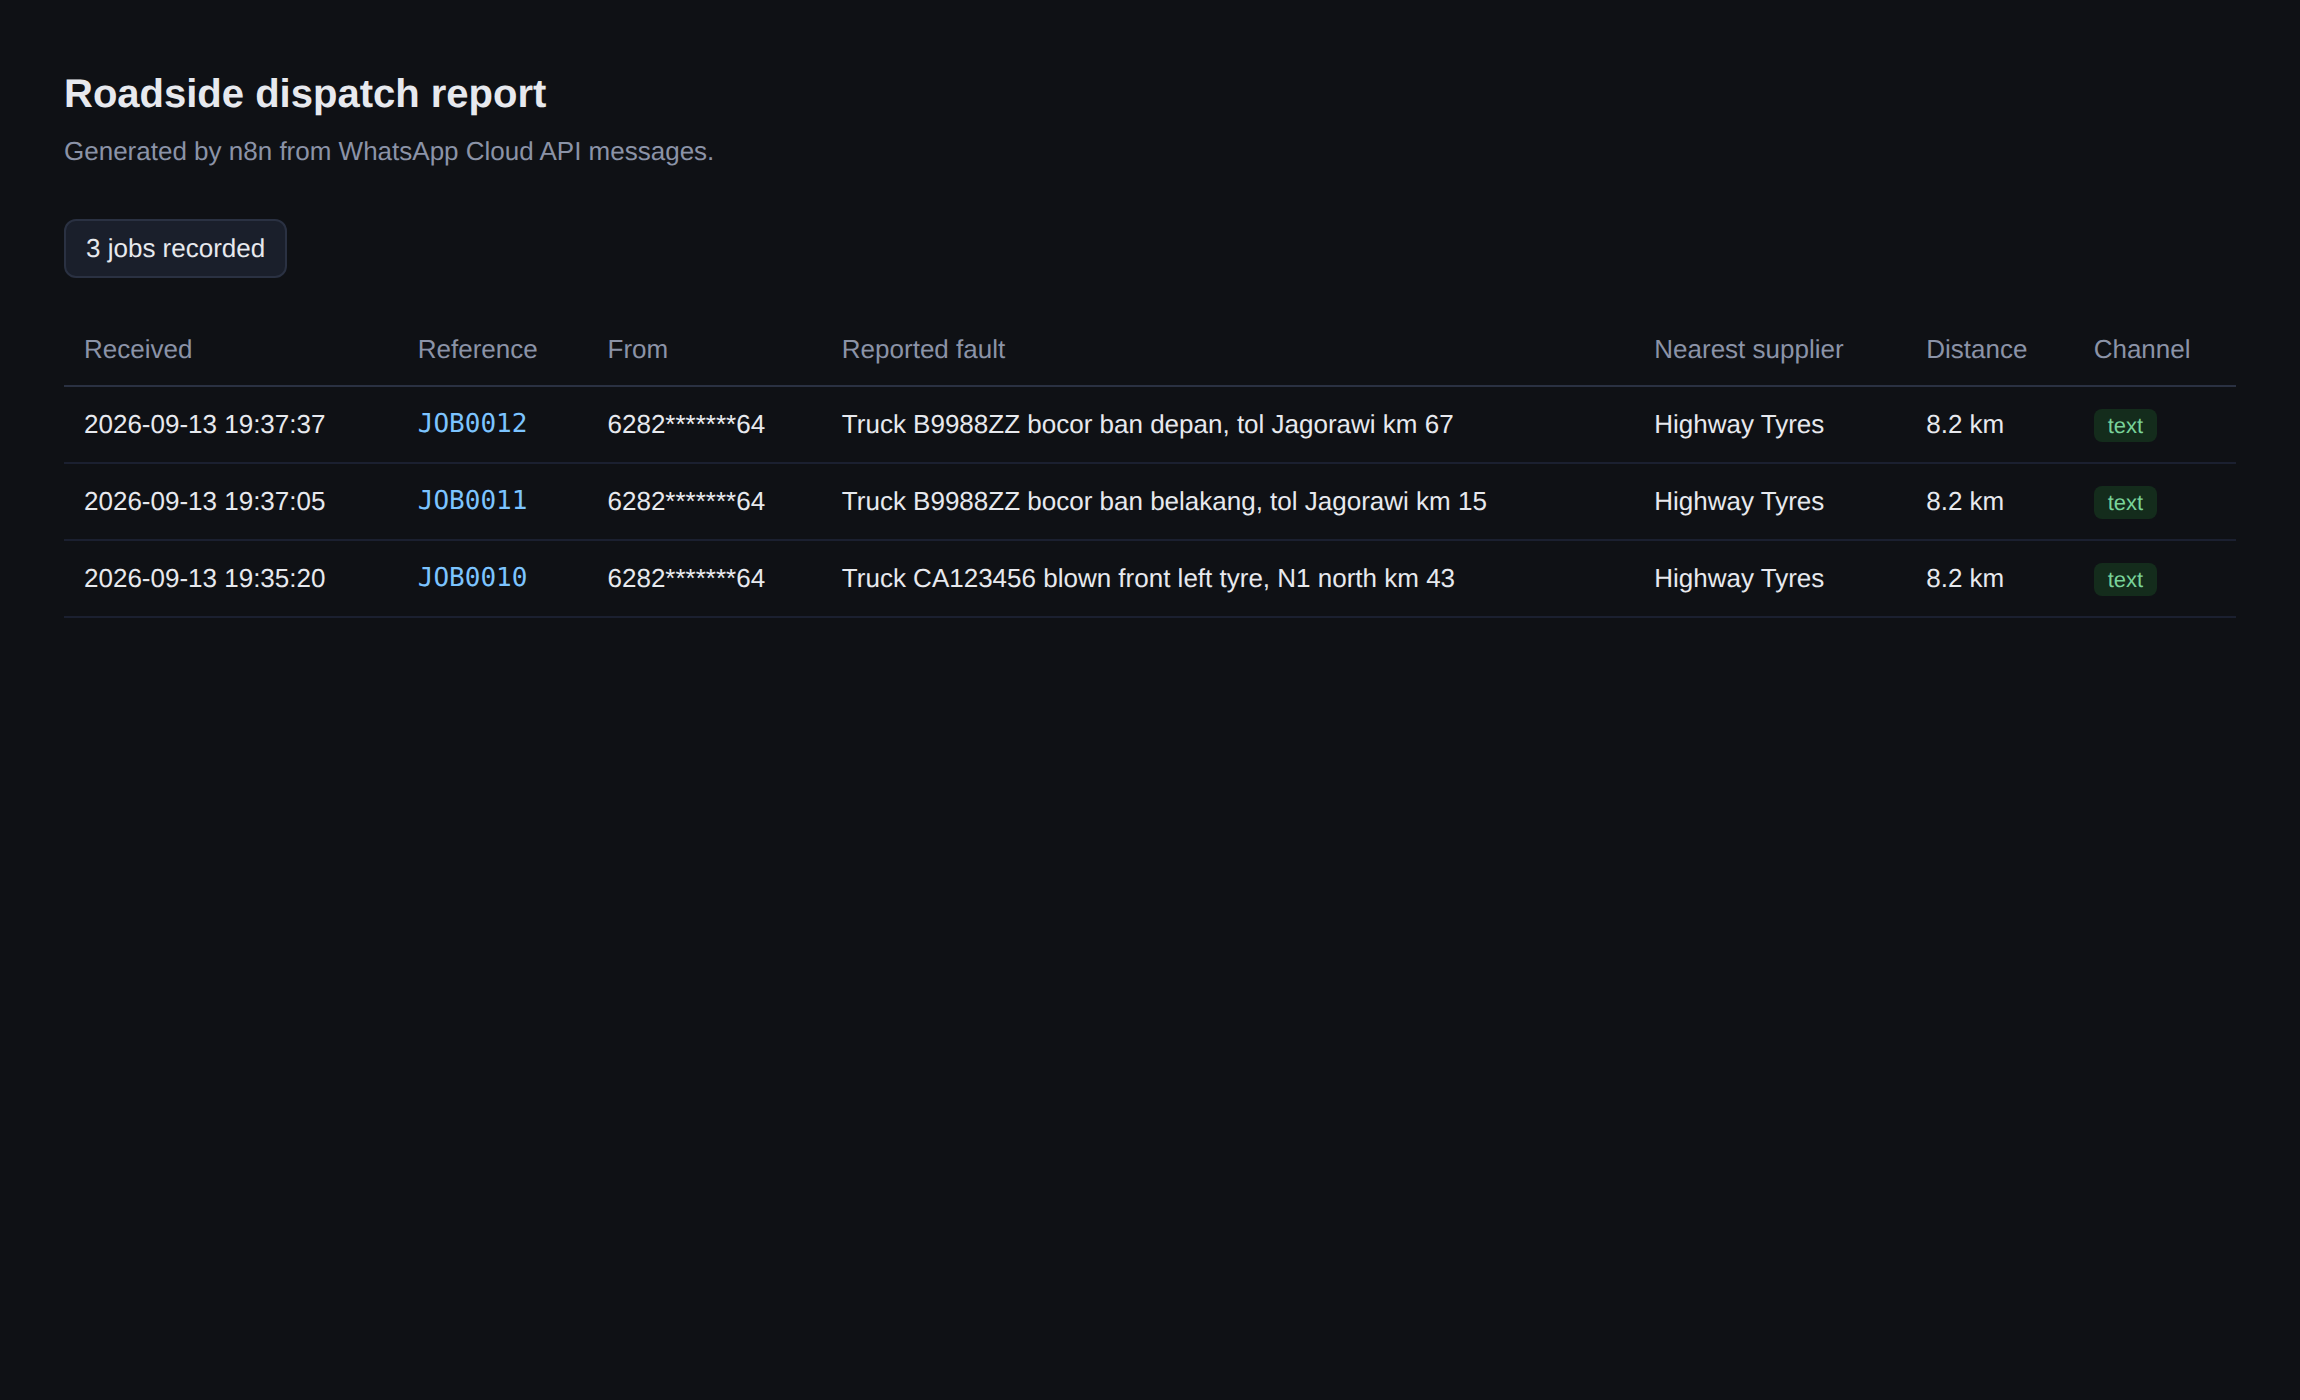
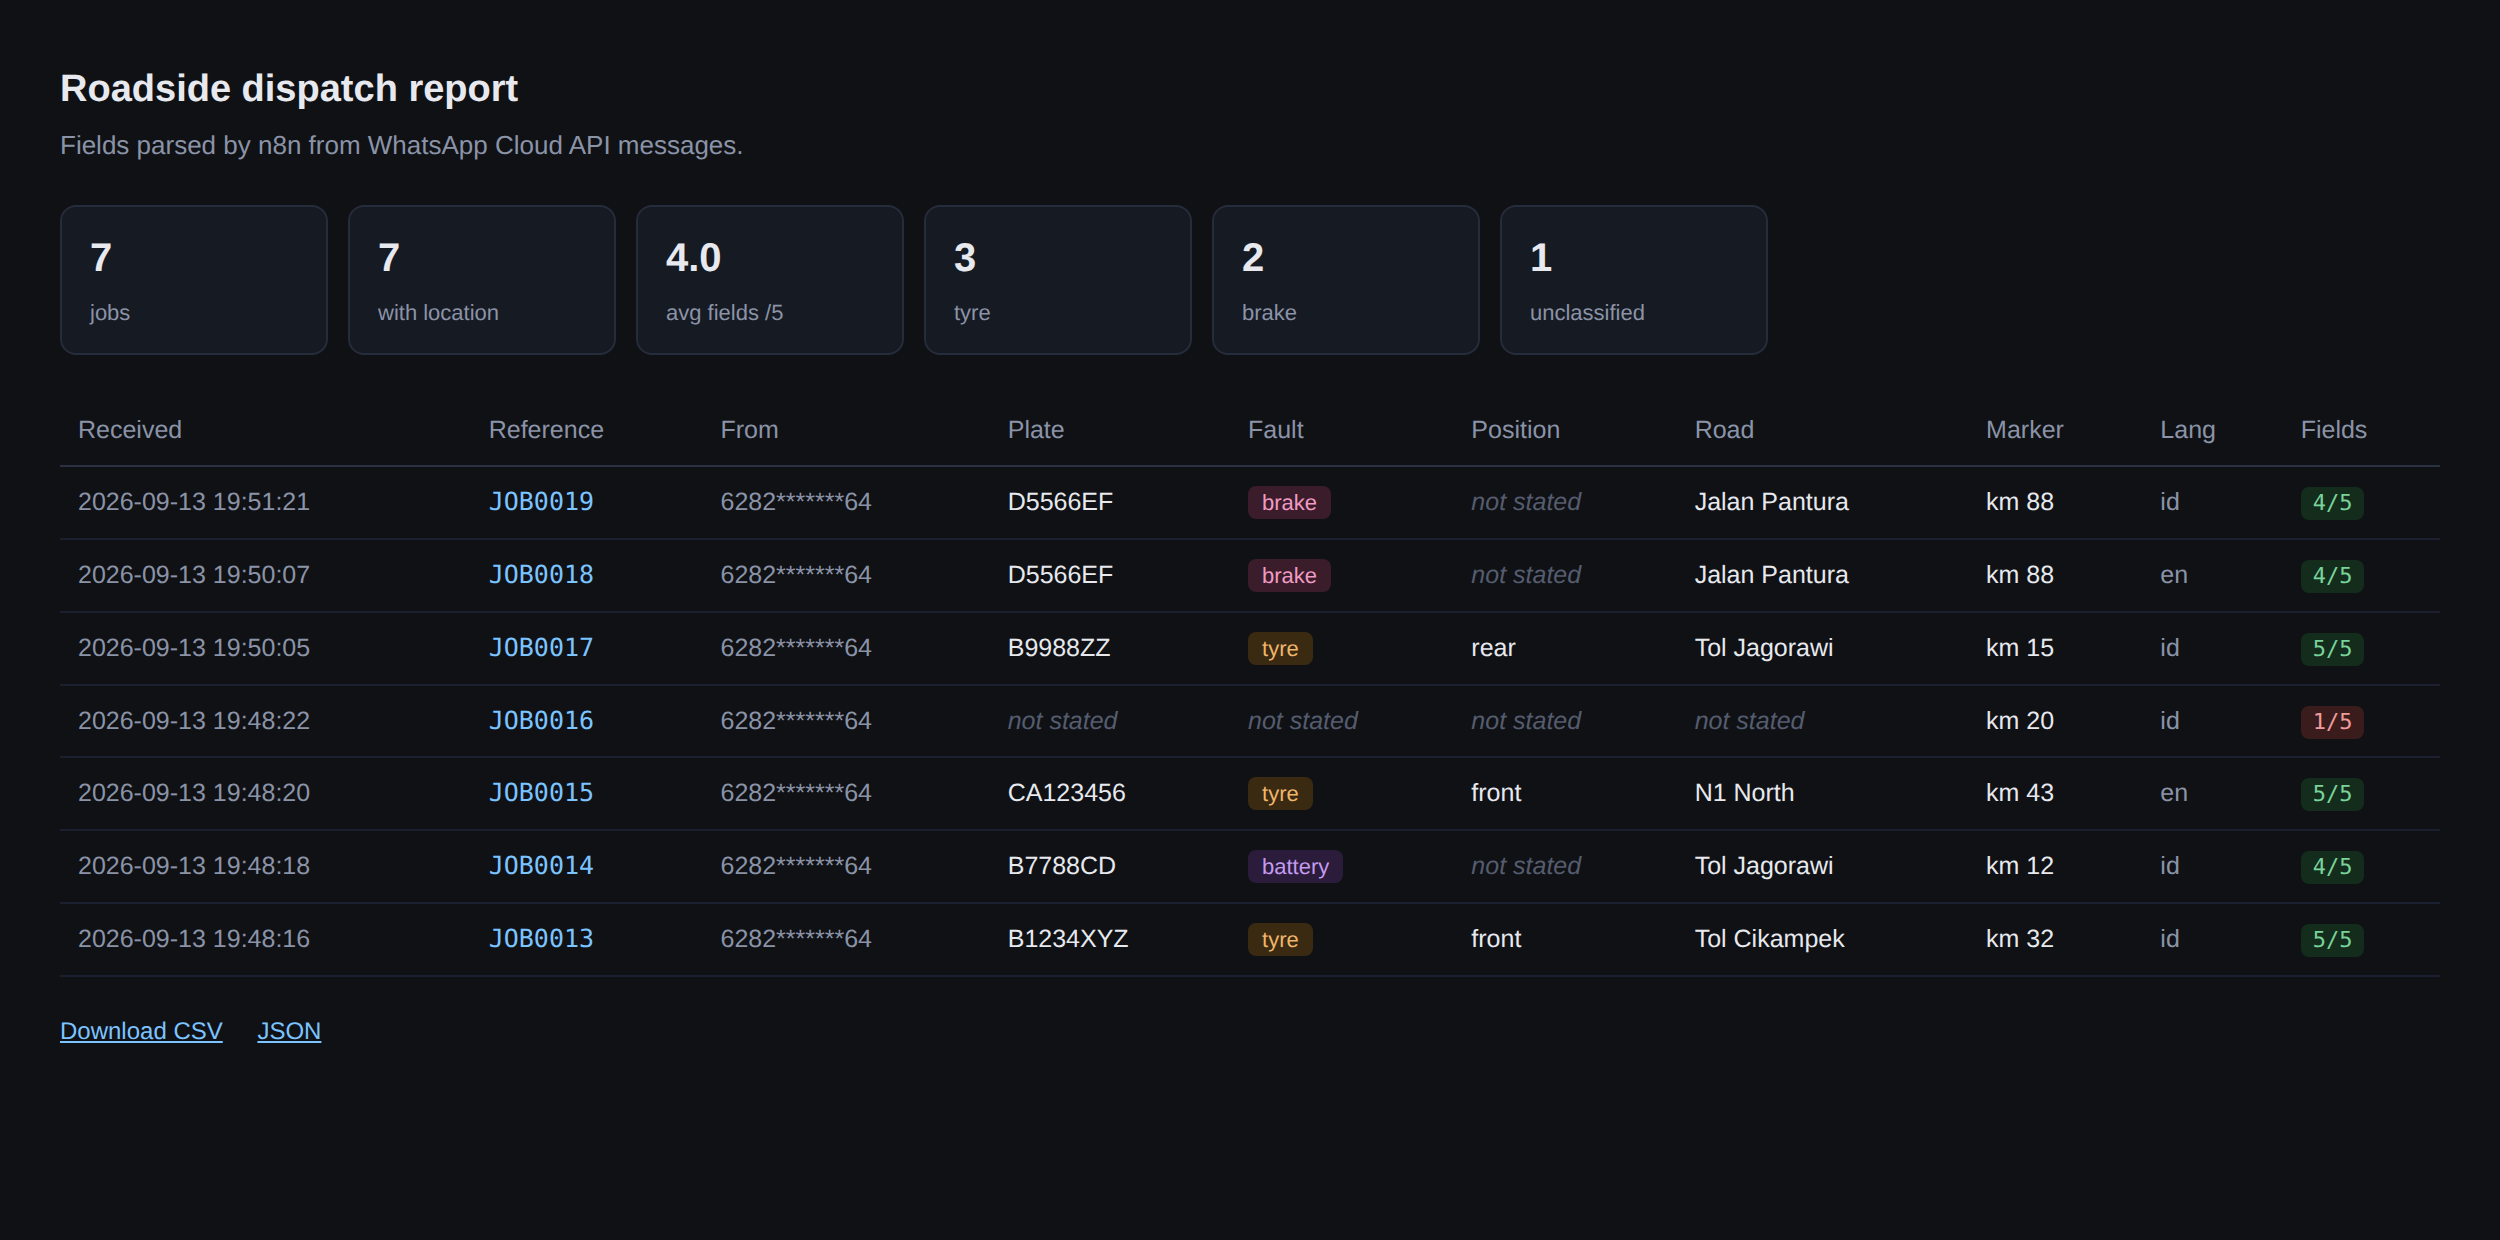
Parse breakdown messages into reportable fields
The report stored whole sentences, which cannot be counted, filtered or exported.
Messages now resolve into plate, fault type, wheel position, road, kilometre
marker and language, with CSV and JSON output alongside the page.

Fields the message never stated stay null rather than guessed, and each row
carries a completeness score so thin reports can be chased. 21 tests cover the
extraction, including the rule that a road code such as N1 is not a plate.

diff --git a/dispatch/extract.py b/dispatch/extract.py
@@ -1,0 +1,143 @@
+"""Pull structured fields out of free-form breakdown messages.
+
+Drivers describe a fault in whatever words they use, mixing Indonesian and
+English. Reporting needs columns. This module turns one into the other.
+
+One rule runs through all of it. A field the message does not state comes back as
+None. An empty cell in a report is a question someone can answer, while a guessed
+plate number sends a truck to the wrong place, so nothing here infers a value it
+did not read.
+"""
+import re
+
+# Wheel position, checked before fault type so "ban depan" resolves both.
+_POSITIONS = (
+    ('front', (r'\bdepan\b', r'\bfront\b')),
+    ('rear', (r'\bbelakang\b', r'\brear\b', r'\bback\b')),
+)
+
+# Fault categories. Ordered, first match wins.
+_FAULTS = (
+    ('tyre', (r'\bban\b', r'\btyre\b', r'\btire\b', r'\bpecah ban\b',
+              r'\bbocor\b', r'\bblown\b', r'\bflat\b', r'\bkempes\b')),
+    ('battery', (r'\baki\b', r'\bbattery\b', r'\bsoak\b', r'\bstarter\b',
+                 r'\bmogok listrik\b')),
+    ('engine', (r'\bmesin\b', r'\bengine\b', r'\boverheat\b', r'\bpanas\b',
+                r'\bmogok\b')),
+    ('fuel', (r'\bbensin\b', r'\bsolar\b', r'\bfuel\b', r'\bdiesel\b',
+              r'\bkehabisan bahan bakar\b')),
+    ('brake', (r'\brem\b', r'\bbrake\b', r'\bblong\b')),
+)
+
+# Indonesian plates: 1-2 letters, 1-4 digits, 1-3 letters, spacing optional.
+# Generic fleet codes such as CA123456 are also accepted.
+_PLATE_PATTERNS = (
+    r'\b([A-Z]{1,2}\s?\d{1,4}\s?[A-Z]{1,3})\b',
+    r'\b([A-Z]{2}\d{4,6})\b',
+)
+
+# Road names, longest form first so "tol dalam kota" beats "tol".
+_ROAD_PATTERNS = (
+    r'\b(tol\s+[a-z]+(?:\s+[a-z]+)?)\b',
+    r'\b(jalan\s+[a-z]+(?:\s+[a-z]+)?)\b',
+    r'\b(jl\.?\s+[a-z]+(?:\s+[a-z]+)?)\b',
+    r'\b([nm]\d\s+(?:north|south|east|west))\b',
+    r'\b([nm]\d)\b',
+)
+
+_ID_MARKERS = (r'\bpecah\b', r'\bban\b', r'\btol\b', r'\bbelakang\b', r'\bdepan\b',
+               r'\bbocor\b', r'\bmogok\b', r'\baki\b', r'\bjalan\b', r'\brusak\b',
+               r'\bbantuan\b', r'\btolong\b', r'\bkendaraan\b')
+_EN_MARKERS = (r'\bblown\b', r'\btyre\b', r'\btire\b', r'\bfront\b', r'\brear\b',
+               r'\bnorth\b', r'\bsouth\b', r'\bbroken\b', r'\bhelp\b',
+               r'\bbreakdown\b', r'\btruck\b', r'\bflat\b')
+
+# Words that look like plates but are not: road codes and unit labels.
+_PLATE_BLOCKLIST = re.compile(r'^(?:[NM]\d|KM|TOL|JL)$', re.I)
+
+
+def _first_match(text, patterns):
+    for pattern in patterns:
+        found = re.search(pattern, text, re.I)
+        if found:
+            return found
+    return None
+
+
+def _find_plate(original):
+    """Read a plate from the original casing, since plates are upper case."""
+    for pattern in _PLATE_PATTERNS:
+        for candidate in re.findall(pattern, original):
+            cleaned = re.sub(r'\s+', '', candidate).upper()
+            if _PLATE_BLOCKLIST.match(cleaned):
+                continue
+            # A plate carries at least one digit and one letter.
+            if re.search(r'\d', cleaned) and re.search(r'[A-Z]', cleaned):
+                return cleaned
+    return None
+
+
+def _find_km(text):
+    found = re.search(r'\bkm\.?\s*(\d+(?:[.,]\d+)?)', text, re.I)
+    if not found:
+        found = re.search(r'\b(\d+(?:[.,]\d+)?)\s*km\b', text, re.I)
+    if not found:
+        return None
+    try:
+        return float(found.group(1).replace(',', '.'))
+    except ValueError:
+        return None
+
+
+def _find_road(text):
+    found = _first_match(text, _ROAD_PATTERNS)
+    if not found:
+        return None
+    road = re.sub(r'\s+', ' ', found.group(1)).strip()
+    # Drop a trailing "km" that the pattern may have swallowed.
+    road = re.sub(r'\s+km$', '', road, flags=re.I)
+    return road.title()
+
+
+def _find_language(text):
+    id_hits = sum(bool(re.search(p, text, re.I)) for p in _ID_MARKERS)
+    en_hits = sum(bool(re.search(p, text, re.I)) for p in _EN_MARKERS)
+    if id_hits == 0 and en_hits == 0:
+        return None
+    return 'id' if id_hits >= en_hits else 'en'
+
+
+def extract_fault_report(message):
+    """Return structured fields read from a breakdown message.
+
+    Keys are always present. Any field the message does not state is None, so a
+    report can show a blank cell rather than an invented value.
+    """
+    original = message or ''
+    text = original.lower()
+
+    fault = None
+    for name, patterns in _FAULTS:
+        if _first_match(text, patterns):
+            fault = name
+            break
+
+    position = None
+    for name, patterns in _POSITIONS:
+        if _first_match(text, patterns):
+            position = name
+            break
+
+    report = {
+        'plate': _find_plate(original),
+        'fault_type': fault,
+        'position': position,
+        'road': _find_road(text),
+        'km': _find_km(text),
+        'language': _find_language(text),
+        'raw_text': original,
+    }
+
+    counted = ('plate', 'fault_type', 'position', 'road', 'km')
+    report['completeness'] = sum(report[k] is not None for k in counted)
+    return report

diff --git a/tests/test_extraction.py b/tests/test_extraction.py
@@ -1,0 +1,114 @@
+"""Extraction of structured fields from free-form breakdown messages.
+
+Drivers type whatever they like, in Indonesian or English. Downstream reporting
+needs columns, not prose. The rule that matters: a field the message does not
+state must come back as None, never as a guess.
+"""
+import unittest
+
+from dispatch.extract import extract_fault_report
+
+
+class ExtractPlate(unittest.TestCase):
+    def test_reads_indonesian_plate(self):
+        r = extract_fault_report("Truck B1234XYZ pecah ban depan, tol Cikampek km 32")
+        self.assertEqual(r['plate'], 'B1234XYZ')
+
+    def test_reads_plate_without_spaces(self):
+        r = extract_fault_report("Truck CA123456 blown front left tyre, N1 north km 43")
+        self.assertEqual(r['plate'], 'CA123456')
+
+    def test_missing_plate_is_none_not_guessed(self):
+        r = extract_fault_report("ban bocor di tol dalam kota")
+        self.assertIsNone(r['plate'])
+
+    def test_does_not_mistake_road_code_for_plate(self):
+        r = extract_fault_report("blown tyre on N1 north km 43")
+        self.assertIsNone(r['plate'])
+
+
+class ExtractLocation(unittest.TestCase):
+    def test_reads_kilometre_marker(self):
+        r = extract_fault_report("Truck B1234XYZ pecah ban depan, tol Cikampek km 32")
+        self.assertEqual(r['km'], 32.0)
+
+    def test_reads_decimal_kilometre(self):
+        r = extract_fault_report("bocor ban, tol Jagorawi km 15.5")
+        self.assertEqual(r['km'], 15.5)
+
+    def test_reads_road_name(self):
+        r = extract_fault_report("Truck B1234XYZ pecah ban depan, tol Cikampek km 32")
+        self.assertEqual(r['road'], 'Tol Cikampek')
+
+    def test_missing_km_is_none(self):
+        r = extract_fault_report("ban bocor di tol Jagorawi")
+        self.assertIsNone(r['km'])
+
+
+class ExtractFault(unittest.TestCase):
+    def test_classifies_tyre_fault_in_indonesian(self):
+        r = extract_fault_report("Truck B1234XYZ pecah ban depan, tol Cikampek km 32")
+        self.assertEqual(r['fault_type'], 'tyre')
+
+    def test_classifies_tyre_fault_in_english(self):
+        r = extract_fault_report("Truck CA123456 blown front left tyre, N1 north km 43")
+        self.assertEqual(r['fault_type'], 'tyre')
+
+    def test_classifies_battery_fault(self):
+        r = extract_fault_report("aki soak tidak bisa starter, tol Jagorawi km 12")
+        self.assertEqual(r['fault_type'], 'battery')
+
+    def test_unknown_fault_is_none(self):
+        r = extract_fault_report("tolong bantuan di km 20")
+        self.assertIsNone(r['fault_type'])
+
+    def test_reads_wheel_position(self):
+        r = extract_fault_report("Truck B1234XYZ pecah ban depan, tol Cikampek km 32")
+        self.assertEqual(r['position'], 'front')
+
+    def test_reads_rear_position_indonesian(self):
+        r = extract_fault_report("bocor ban belakang, tol Jagorawi km 15")
+        self.assertEqual(r['position'], 'rear')
+
+
+class ExtractLanguage(unittest.TestCase):
+    def test_detects_indonesian(self):
+        r = extract_fault_report("Truck B1234XYZ pecah ban depan, tol Cikampek km 32")
+        self.assertEqual(r['language'], 'id')
+
+    def test_detects_english(self):
+        r = extract_fault_report("Truck CA123456 blown front left tyre, N1 north km 43")
+        self.assertEqual(r['language'], 'en')
+
+    def test_indonesian_words_outweigh_the_word_truck(self):
+        # "Truck" is written by Indonesian drivers too, so one English-looking
+        # token must not flip a sentence that is otherwise Indonesian.
+        r = extract_fault_report("Truck D5566EF rem blong, jalan Pantura km 88")
+        self.assertEqual(r['language'], 'id')
+
+
+class ExtractContract(unittest.TestCase):
+    def test_every_field_present_even_when_empty(self):
+        r = extract_fault_report("halo")
+        expected = {'plate', 'fault_type', 'position', 'road', 'km',
+                    'language', 'raw_text', 'completeness'}
+        self.assertEqual(set(r), expected)
+
+    def test_keeps_original_text_for_audit(self):
+        text = "Truck B1234XYZ pecah ban depan, tol Cikampek km 32"
+        self.assertEqual(extract_fault_report(text)['raw_text'], text)
+
+    def test_completeness_counts_only_filled_fields(self):
+        full = extract_fault_report("Truck B1234XYZ pecah ban depan, tol Cikampek km 32")
+        empty = extract_fault_report("halo")
+        self.assertEqual(full['completeness'], 5)
+        self.assertEqual(empty['completeness'], 0)
+
+    def test_empty_message_does_not_raise(self):
+        r = extract_fault_report("")
+        self.assertIsNone(r['plate'])
+        self.assertEqual(r['completeness'], 0)
+
+
+if __name__ == '__main__':
+    unittest.main()

diff --git a/evidence/README.md b/evidence/README.md
@@ -9,6 +9,7 @@ written by hand.
 
 ```text
 dispatch-report.png               the report page, rendered from real messages
+dispatch-report.csv               the same data exported as CSV
 workflow-whatsapp-dispatch.json   the 13-node n8n workflow, secrets removed
 status-callback-20.json           Meta delivery status, error 131047
 status-callback-21.json           Meta delivery status, error 130497
@@ -17,16 +18,36 @@ status-callback-21.json           Meta delivery status, error 130497
 ## The path that runs green
 
 ```text
-phone  ->  WhatsApp Cloud API  ->  webhook  ->  n8n  ->  report page
+phone  ->  WhatsApp Cloud API  ->  webhook  ->  n8n  ->  report, CSV, JSON
 ```
 
-A driver sends a plain WhatsApp message describing a breakdown. The workflow
-parses it, assigns a reference, ranks suppliers by distance, decides whether the
-24-hour session window allows free-form text or requires an approved template,
-and appends the result to a durable log. The report page renders that log.
+A driver types a breakdown in their own words, in Indonesian or English. The
+workflow reads the sentence into columns and appends it to a durable log:
 
-Every row in `dispatch-report.png` came from a message typed on a real phone.
-Phone numbers are masked in the page itself, not edited afterwards.
+```text
+plate         B1234XYZ
+fault_type    tyre
+position      front
+road          Tol Cikampek
+km            32
+language      id
+completeness  5 of 5
+```
+
+The same data leaves as a page, as `?format=csv` for a spreadsheet, or as
+`?format=json` for another system.
+
+A field the message does not state stays empty and is labelled `not stated`. An
+empty cell is a question a dispatcher can ask. A guessed plate number sends a
+truck to the wrong place, so nothing is inferred that was not written.
+
+`dispatch-report.csv` shows what that looks like in practice. One row reads
+`km 20` with every other field blank, because the message was only "tolong
+bantuan di km 20". The `completeness` column scores each row so incomplete
+reports can be chased.
+
+The extraction logic has unit tests in `tests/test_extraction.py`. The n8n node
+mirrors that reference implementation.
 
 State lives in n8n static data, so the log survives a container restart.
 

diff --git a/README.md b/README.md
@@ -143,9 +143,18 @@ message typed on a phone becomes a row on a report page.
 
 ![Dispatch report generated from real WhatsApp messages](evidence/dispatch-report.png)
 
-Every row there came from a WhatsApp message sent by a driver. Recorded output
-from that deployment lives in [`evidence/`](evidence/), including the exported
-13-node workflow and two Meta delivery status callbacks.
+Every row there came from a WhatsApp message typed on a phone, read into columns
+by the workflow. A driver writes "Truck B1234XYZ pecah ban depan, tol Cikampek
+km 32" and the report gains a row with plate, fault type, wheel position, road,
+and kilometre marker as separate fields, exportable as CSV or JSON.
+
+Fields the message never stated stay empty rather than guessed. An empty cell is
+a question a dispatcher can ask; an invented plate number sends a truck to the
+wrong place. `tests/test_extraction.py` covers that rule directly.
+
+Recorded output from that deployment lives in [`evidence/`](evidence/), including
+the exported 13-node workflow, a CSV export, and two Meta delivery status
+callbacks.
 
 Those callbacks matter. The Graph API returns `HTTP 200` with a `wamid` as soon
 as it queues a message, which is not the same as delivery. Failures arrive later
